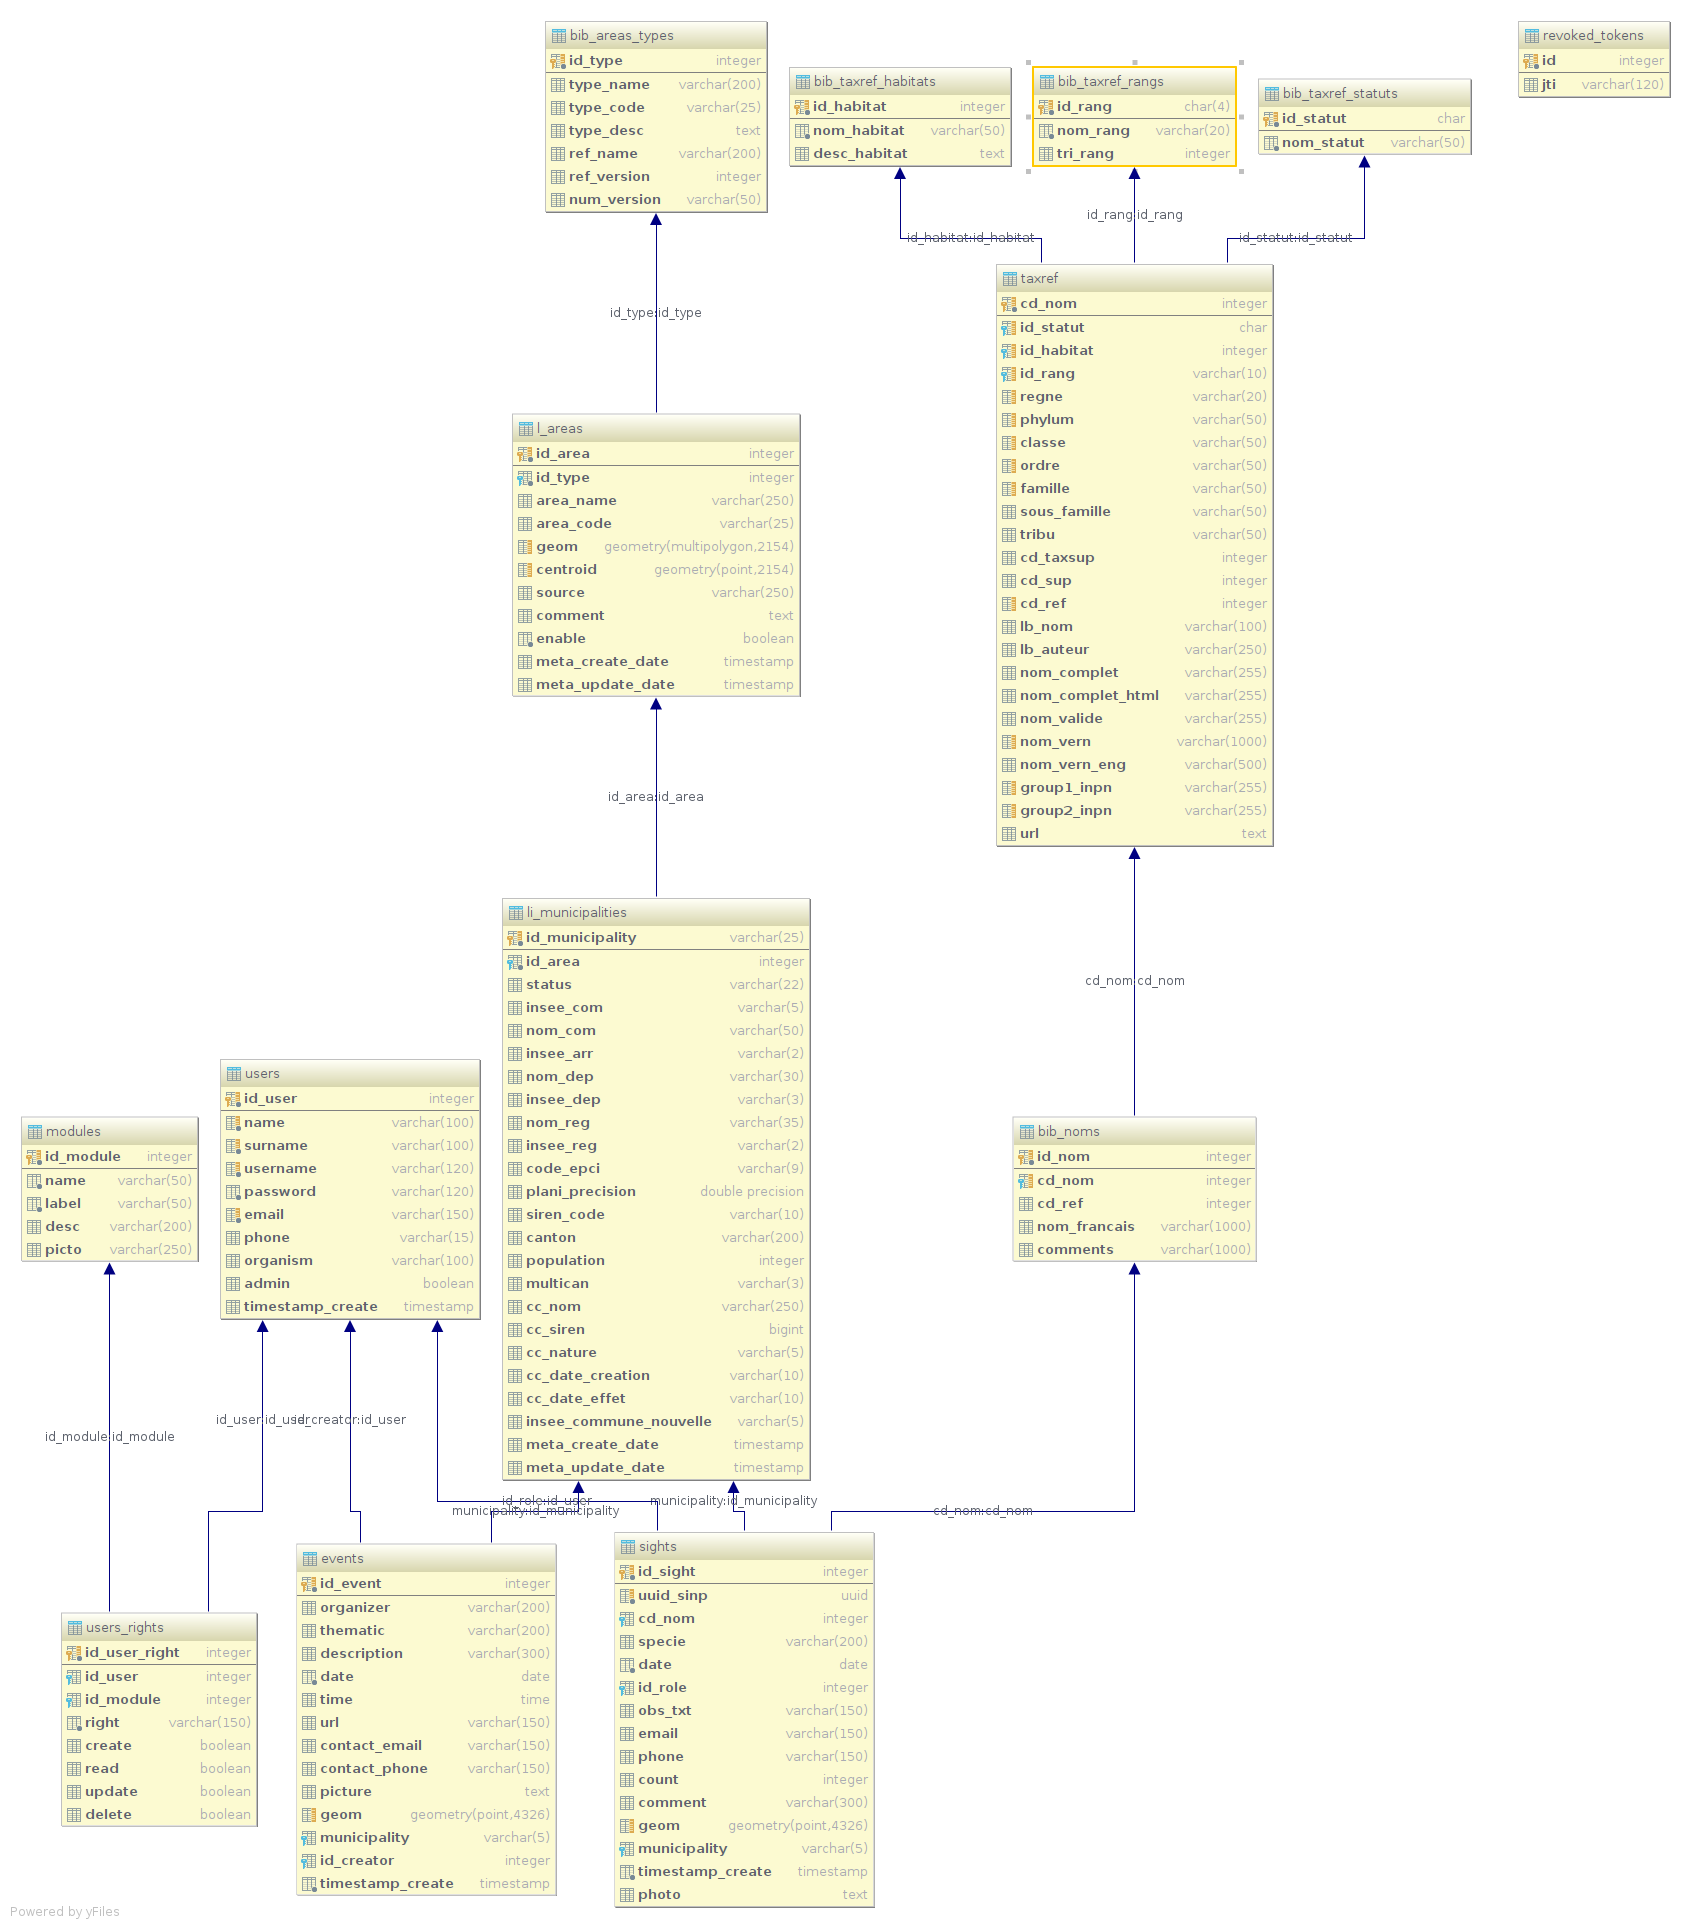
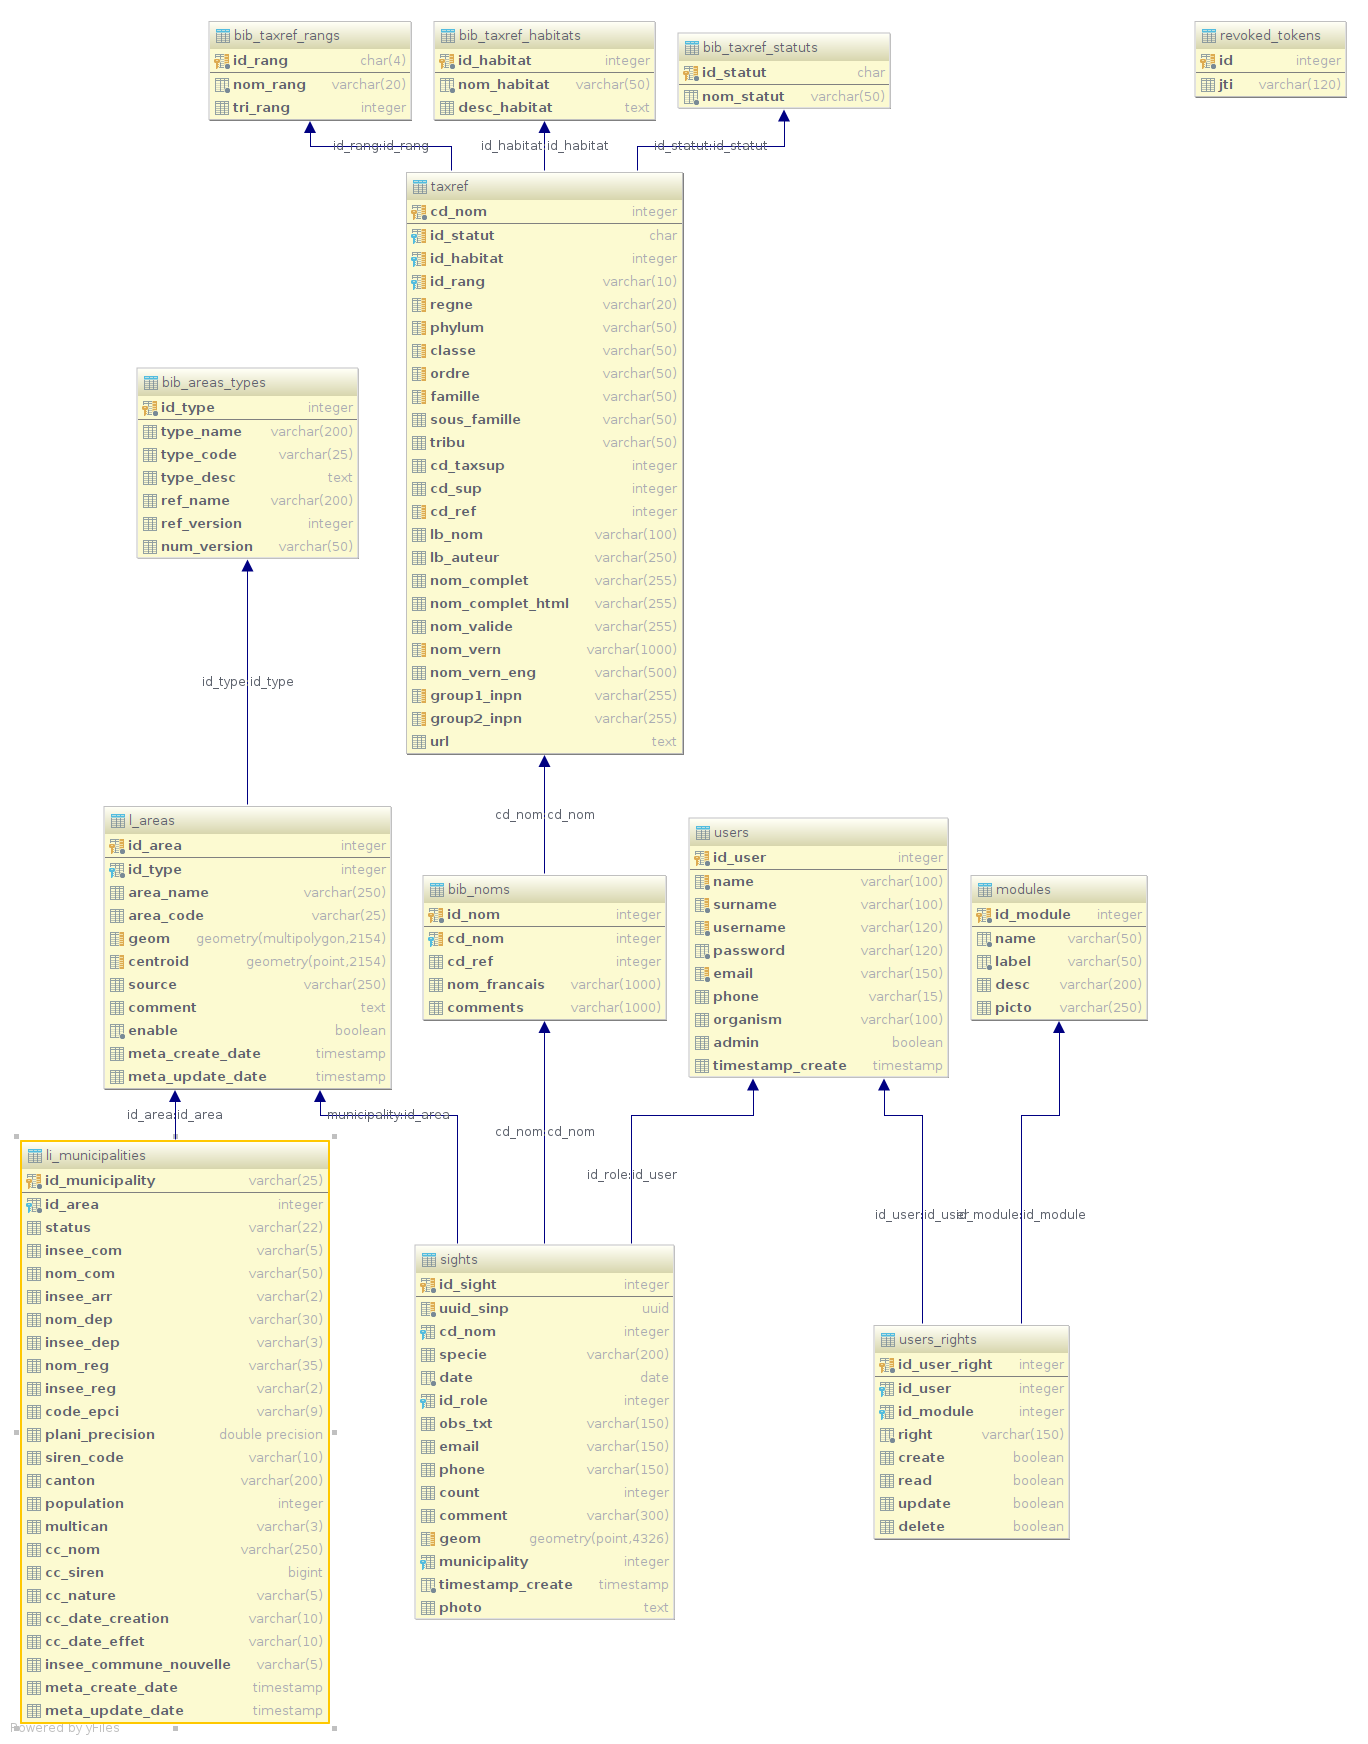
change sights model > foreign key from li_municipalities to l_areas

diff --git a/backend/gncitizen/core/sights/models.py b/backend/gncitizen/core/sights/models.py
@@ -31,6 +31,6 @@ class SightModel(db.Model):
     count = db.Column(db.Integer)
     comment = db.Column(db.String(300))
     geom = db.Column(Geometry('POINT', 4326))
-    municipality = db.Column(db.String(5), db.ForeignKey('ref_geo.li_municipalities.id_municipality'))
+    municipality = db.Column(db.Integer, db.ForeignKey('ref_geo.l_areas.id_area'))
     timestamp_create = db.Column(db.DateTime, nullable=False, default=datetime.utcnow)
     photo = db.Column(db.Text)
